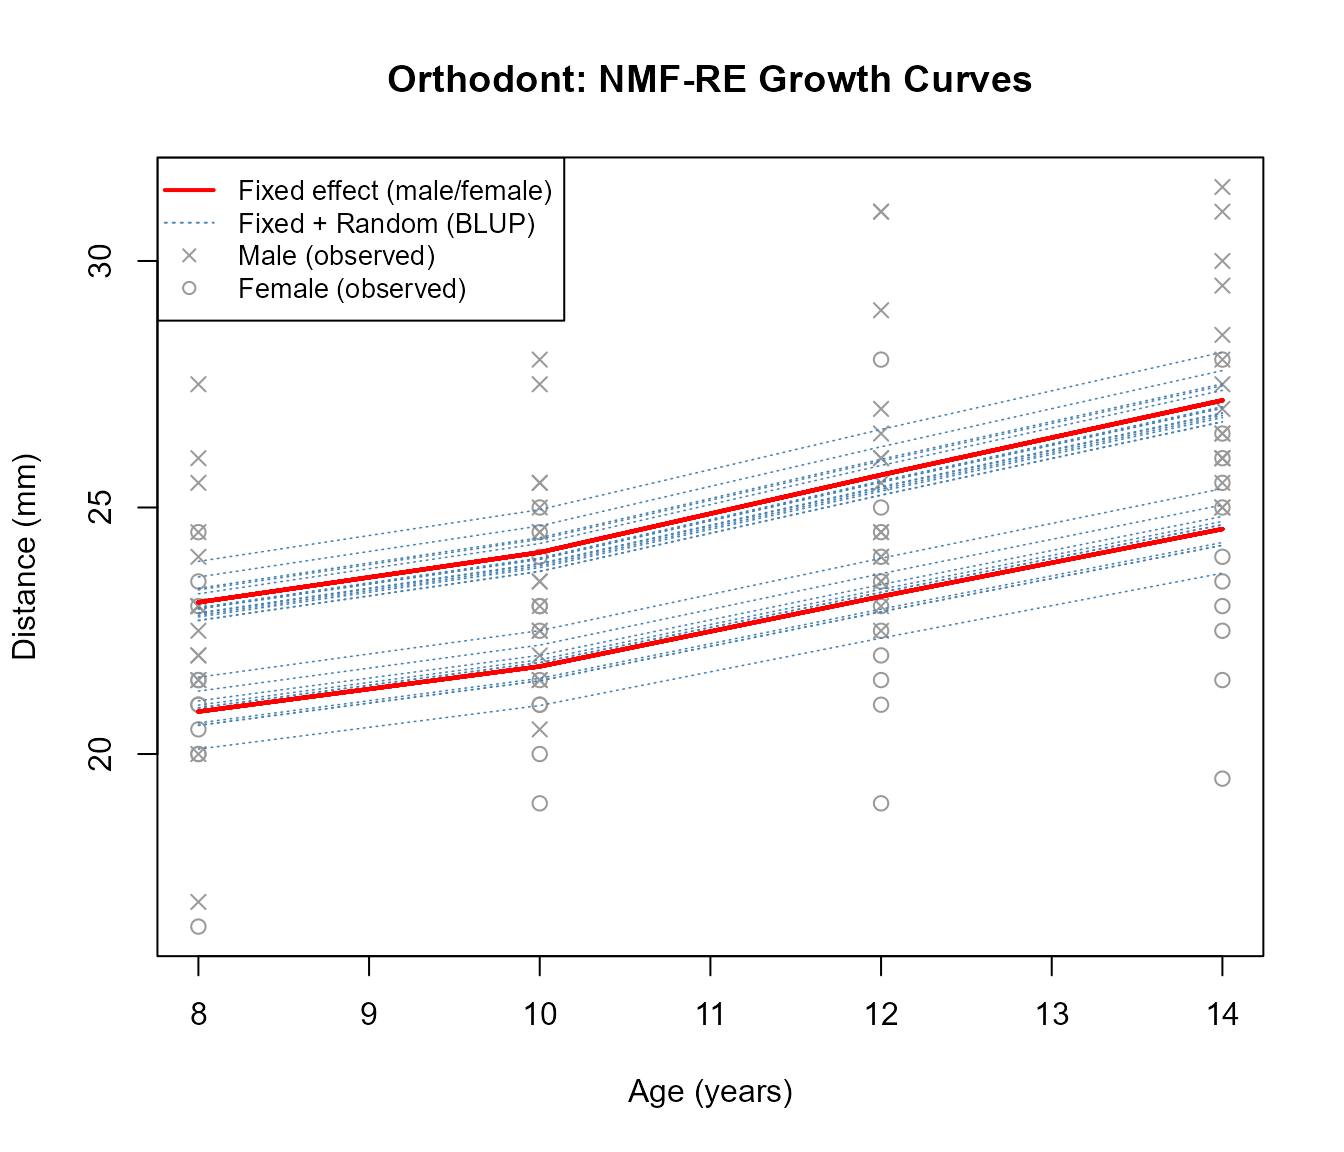
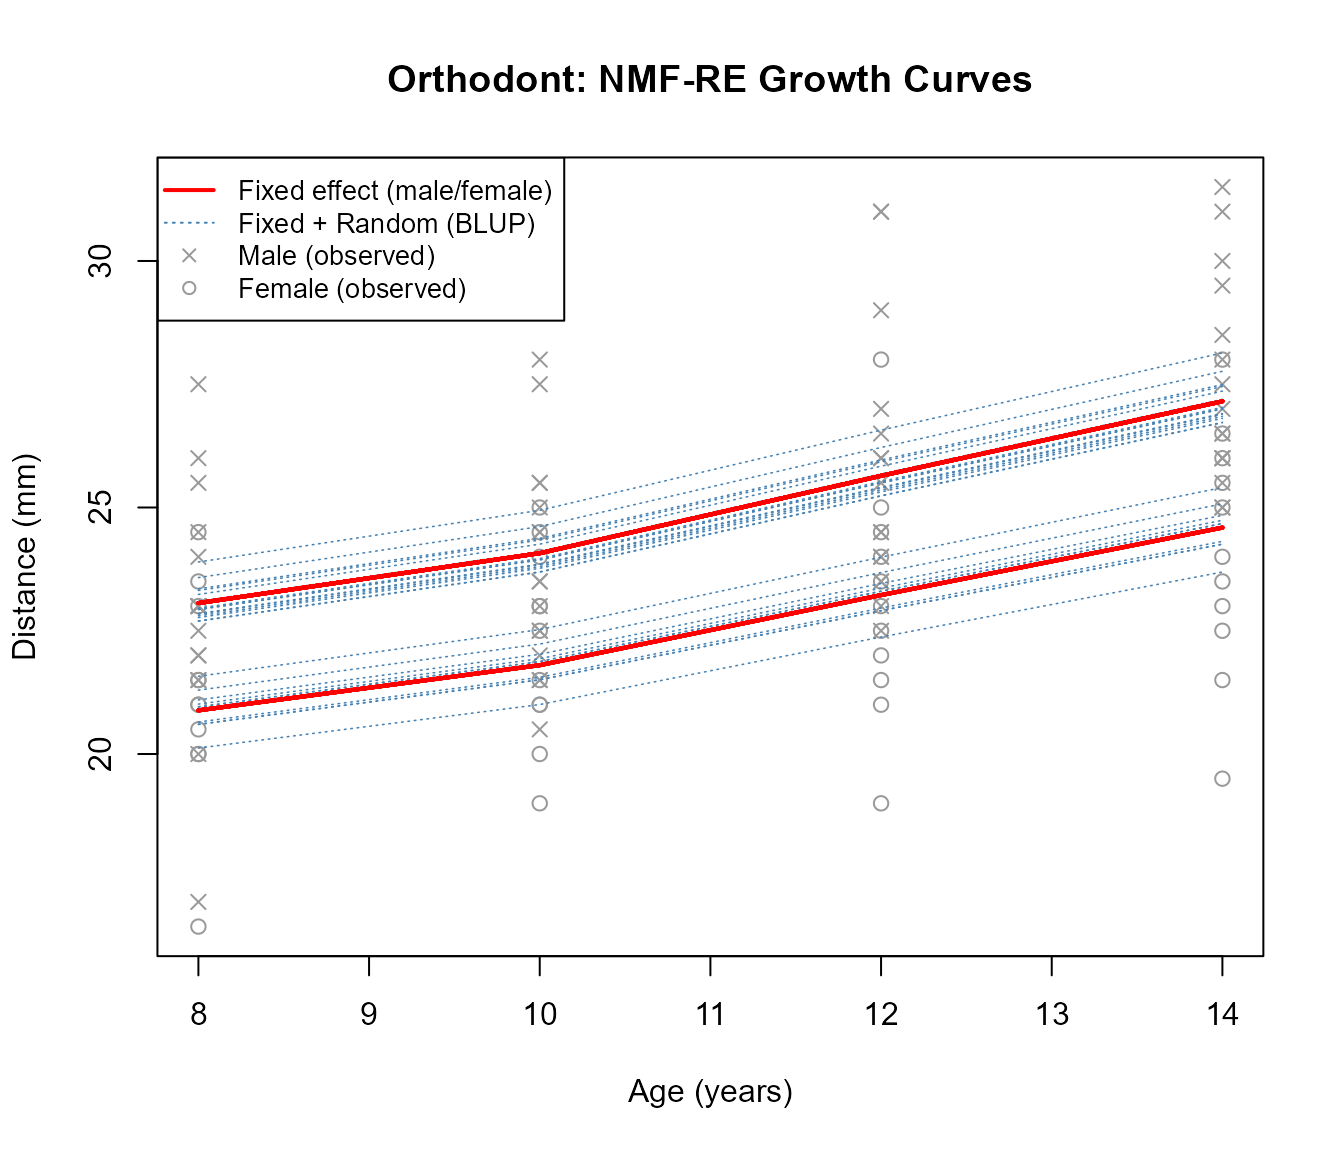
Update NMF-RE vignette with epsilon=1e-08

Changed region(s): [[0.1562, 0.4375, 0.9062, 0.625], [0.1562, 0.3125, 0.9062, 0.5312]]

diff --git a/docs/articles/nmf-re-with-nmfkc.html b/docs/articles/nmf-re-with-nmfkc.html
@@ -273,7 +273,7 @@ was updated freely (<code>TRUE</code> = unconstrained).</li>
 Coefficient.</li>
 </ul>
 <div class="sourceCode" id="cb4"><pre class="downlit sourceCode r">
-<code class="sourceCode R"><span><span class="va">scan_result</span> <span class="op">&lt;-</span> <span class="fu"><a href="../reference/nmfre.dfU.scan.html">nmfre.dfU.scan</a></span><span class="op">(</span><span class="fl">1</span><span class="op">:</span><span class="fl">10</span><span class="op">/</span><span class="fl">10</span>, <span class="va">Y</span>, <span class="va">A</span>, Q <span class="op">=</span> <span class="fl">1</span><span class="op">)</span></span>
+<code class="sourceCode R"><span><span class="va">scan_result</span> <span class="op">&lt;-</span> <span class="fu"><a href="../reference/nmfre.dfU.scan.html">nmfre.dfU.scan</a></span><span class="op">(</span><span class="fl">1</span><span class="op">:</span><span class="fl">10</span><span class="op">/</span><span class="fl">10</span>, <span class="va">Y</span>, <span class="va">A</span>, Q <span class="op">=</span> <span class="fl">1</span>, epsilon <span class="op">=</span> <span class="fl">1e-08</span><span class="op">)</span></span>
 <span><span class="va">scan_result</span></span>
 <span><span class="co">#&gt;    rate dfU.cap  dfU safeguard   hit converged  tau2 sigma2    ICC</span></span>
 <span><span class="co">#&gt; 1   0.1     2.7 2.70     FALSE  TRUE      TRUE 0.443      1 0.0270</span></span>
@@ -312,7 +312,7 @@ the model with rank
 (a single latent trend). The <code>prefix</code> argument labels the
 basis.</p>
 <div class="sourceCode" id="cb5"><pre class="downlit sourceCode r">
-<code class="sourceCode R"><span><span class="va">res</span> <span class="op">&lt;-</span> <span class="fu"><a href="../reference/nmfre.html">nmfre</a></span><span class="op">(</span><span class="va">Y</span>, <span class="va">A</span>, Q <span class="op">=</span> <span class="fl">1</span>, dfU.cap.rate <span class="op">=</span> <span class="fl">0.2</span>, prefix <span class="op">=</span> <span class="st">"Trend"</span><span class="op">)</span></span></code></pre></div>
+<code class="sourceCode R"><span><span class="va">res</span> <span class="op">&lt;-</span> <span class="fu"><a href="../reference/nmfre.html">nmfre</a></span><span class="op">(</span><span class="va">Y</span>, <span class="va">A</span>, Q <span class="op">=</span> <span class="fl">1</span>, dfU.cap.rate <span class="op">=</span> <span class="fl">0.2</span>, epsilon <span class="op">=</span> <span class="fl">1e-08</span>, prefix <span class="op">=</span> <span class="st">"Trend"</span><span class="op">)</span></span></code></pre></div>
 <div class="section level3">
 <h3 id="model-summary">3.1 Model Summary<a class="anchor" aria-label="anchor" href="#model-summary"></a>
 </h3>
@@ -321,7 +321,7 @@ and the coefficient table with significance stars.</p>
 <div class="sourceCode" id="cb6"><pre class="downlit sourceCode r">
 <code class="sourceCode R"><span><span class="fu"><a href="https://rdrr.io/pkg/urca/man/summary-methods.html" class="external-link">summary</a></span><span class="op">(</span><span class="va">res</span><span class="op">)</span></span>
 <span><span class="co">#&gt; NMF-RE: Y(4,27) = X(4,1) [C(1,2) A + U(1,27)]</span></span>
-<span><span class="co">#&gt; Iterations: 2 (converged, epsilon = 1e-05)</span></span>
+<span><span class="co">#&gt; Iterations: 2 (converged, epsilon = 1e-08)</span></span>
 <span><span class="co">#&gt; R-squared: 0.5654 (XB+blup), 0.4167 (XB)</span></span>
 <span><span class="co">#&gt; </span></span>
 <span><span class="co">#&gt; Variance components:</span></span>
@@ -333,8 +333,8 @@ and the coefficient table with significance stars.</p>
 <span><span class="co">#&gt; </span></span>
 <span><span class="co">#&gt; Coefficients:</span></span>
 <span><span class="co">#&gt;                   Estimate Std. Error (Boot) z value   Pr(&gt;z) </span></span>
-<span><span class="co">#&gt; intercept:Trend1    90.393      2.471  2.452   36.58   &lt;2e-16 ***</span></span>
-<span><span class="co">#&gt;      male:Trend1     9.606      3.056  2.977    3.14 0.0008356 ***</span></span>
+<span><span class="co">#&gt; intercept:Trend1    90.502      2.471  2.450   36.62   &lt;2e-16 ***</span></span>
+<span><span class="co">#&gt;      male:Trend1     9.428      3.056  2.975    3.09 0.001017 **</span></span>
 <span><span class="co">#&gt; ---</span></span>
 <span><span class="co">#&gt; Signif. codes:  0 '***' 0.001 '**' 0.01 '*' 0.05 '.' 0.1 ' ' 1</span></span></code></pre></div>
 </div>
@@ -483,7 +483,7 @@ maps covariates to latent scores:</p>
 <span><span class="co">#&gt; Coefficient matrix (Theta):</span></span>
 <span><span class="fu"><a href="https://rdrr.io/r/base/print.html" class="external-link">print</a></span><span class="op">(</span><span class="fu"><a href="https://rdrr.io/r/base/Round.html" class="external-link">round</a></span><span class="op">(</span><span class="va">res</span><span class="op">$</span><span class="va">C</span>, <span class="fl">4</span><span class="op">)</span><span class="op">)</span></span>
 <span><span class="co">#&gt;        intercept   male</span></span>
-<span><span class="co">#&gt; Trend1   90.3934 9.6059</span></span></code></pre></div>
+<span><span class="co">#&gt; Trend1    90.502 9.4285</span></span></code></pre></div>
 <ul>
 <li>
 <code>intercept</code>: Baseline level of the latent trend for
@@ -541,9 +541,9 @@ slower growth.</p>
 <div class="sourceCode" id="cb13"><pre class="downlit sourceCode r">
 <code class="sourceCode R"><span><span class="va">residuals</span> <span class="op">&lt;-</span> <span class="va">Y</span> <span class="op">-</span> <span class="va">res</span><span class="op">$</span><span class="va">XB.blup</span></span>
 <span><span class="fu"><a href="https://rdrr.io/r/base/cat.html" class="external-link">cat</a></span><span class="op">(</span><span class="st">"Mean absolute residual (BLUP):"</span>, <span class="fu"><a href="https://rdrr.io/r/base/Round.html" class="external-link">round</a></span><span class="op">(</span><span class="fu"><a href="https://rdrr.io/r/base/mean.html" class="external-link">mean</a></span><span class="op">(</span><span class="fu"><a href="https://rdrr.io/r/base/MathFun.html" class="external-link">abs</a></span><span class="op">(</span><span class="va">residuals</span><span class="op">)</span><span class="op">)</span>, <span class="fl">4</span><span class="op">)</span>, <span class="st">"\n"</span><span class="op">)</span></span>
-<span><span class="co">#&gt; Mean absolute residual (BLUP): 1.5118</span></span>
+<span><span class="co">#&gt; Mean absolute residual (BLUP): 1.5105</span></span>
 <span><span class="fu"><a href="https://rdrr.io/r/base/cat.html" class="external-link">cat</a></span><span class="op">(</span><span class="st">"Mean absolute residual (fixed):"</span>, <span class="fu"><a href="https://rdrr.io/r/base/Round.html" class="external-link">round</a></span><span class="op">(</span><span class="fu"><a href="https://rdrr.io/r/base/mean.html" class="external-link">mean</a></span><span class="op">(</span><span class="fu"><a href="https://rdrr.io/r/base/MathFun.html" class="external-link">abs</a></span><span class="op">(</span><span class="va">Y</span> <span class="op">-</span> <span class="va">res</span><span class="op">$</span><span class="va">XB</span><span class="op">)</span><span class="op">)</span>, <span class="fl">4</span><span class="op">)</span>, <span class="st">"\n"</span><span class="op">)</span></span>
-<span><span class="co">#&gt; Mean absolute residual (fixed): 1.7612</span></span>
+<span><span class="co">#&gt; Mean absolute residual (fixed): 1.7589</span></span>
 <span></span>
 <span><span class="co"># Fitted vs Observed</span></span>
 <span><span class="fu"><a href="https://rdrr.io/r/base/plot.html" class="external-link">plot</a></span><span class="op">(</span><span class="fu"><a href="https://rdrr.io/r/base/vector.html" class="external-link">as.vector</a></span><span class="op">(</span><span class="va">Y</span><span class="op">)</span>, <span class="fu"><a href="https://rdrr.io/r/base/vector.html" class="external-link">as.vector</a></span><span class="op">(</span><span class="va">res</span><span class="op">$</span><span class="va">XB.blup</span><span class="op">)</span>,</span>
@@ -561,13 +561,13 @@ slower growth.</p>
 standard NMF covariate model (no random effects).</p>
 <div class="sourceCode" id="cb14"><pre class="downlit sourceCode r">
 <code class="sourceCode R"><span><span class="co"># Standard NMF with covariates (no random effects)</span></span>
-<span><span class="va">res_fixed</span> <span class="op">&lt;-</span> <span class="fu"><a href="../reference/nmfkc.html">nmfkc</a></span><span class="op">(</span><span class="va">Y</span>, A <span class="op">=</span> <span class="va">A</span>, Q <span class="op">=</span> <span class="fl">1</span>, epsilon <span class="op">=</span> <span class="fl">1e-5</span><span class="op">)</span></span>
+<span><span class="va">res_fixed</span> <span class="op">&lt;-</span> <span class="fu"><a href="../reference/nmfkc.html">nmfkc</a></span><span class="op">(</span><span class="va">Y</span>, A <span class="op">=</span> <span class="va">A</span>, Q <span class="op">=</span> <span class="fl">1</span>, epsilon <span class="op">=</span> <span class="fl">1e-08</span><span class="op">)</span></span>
 <span><span class="co">#&gt; Y(4,27)~X(4,1)C(1,2)A(2,27)=XB(1,27)...0sec</span></span>
 <span></span>
 <span><span class="fu"><a href="https://rdrr.io/r/base/cat.html" class="external-link">cat</a></span><span class="op">(</span><span class="st">"=== Standard NMF (fixed effects only) ===\n"</span><span class="op">)</span></span>
 <span><span class="co">#&gt; === Standard NMF (fixed effects only) ===</span></span>
 <span><span class="fu"><a href="https://rdrr.io/r/base/cat.html" class="external-link">cat</a></span><span class="op">(</span><span class="st">"R-squared:"</span>, <span class="fu"><a href="https://rdrr.io/r/base/Round.html" class="external-link">round</a></span><span class="op">(</span><span class="fl">1</span> <span class="op">-</span> <span class="fu"><a href="https://rdrr.io/r/base/sum.html" class="external-link">sum</a></span><span class="op">(</span><span class="op">(</span><span class="va">Y</span> <span class="op">-</span> <span class="va">res_fixed</span><span class="op">$</span><span class="va">XB</span><span class="op">)</span><span class="op">^</span><span class="fl">2</span><span class="op">)</span> <span class="op">/</span> <span class="fu"><a href="https://rdrr.io/r/base/sum.html" class="external-link">sum</a></span><span class="op">(</span><span class="op">(</span><span class="va">Y</span> <span class="op">-</span> <span class="fu"><a href="https://rdrr.io/r/base/mean.html" class="external-link">mean</a></span><span class="op">(</span><span class="va">Y</span><span class="op">)</span><span class="op">)</span><span class="op">^</span><span class="fl">2</span><span class="op">)</span>, <span class="fl">4</span><span class="op">)</span>, <span class="st">"\n\n"</span><span class="op">)</span></span>
-<span><span class="co">#&gt; R-squared: 0.4166</span></span>
+<span><span class="co">#&gt; R-squared: 0.4167</span></span>
 <span></span>
 <span><span class="fu"><a href="https://rdrr.io/r/base/cat.html" class="external-link">cat</a></span><span class="op">(</span><span class="st">"=== NMF-RE (fixed + random effects) ===\n"</span><span class="op">)</span></span>
 <span><span class="co">#&gt; === NMF-RE (fixed + random effects) ===</span></span>

diff --git a/docs/articles/timeseries-with-nmfkc.html b/docs/articles/timeseries-with-nmfkc.html
@@ -185,18 +185,18 @@ dimension.</p>
 <span><span class="va">cv_res</span> <span class="op">&lt;-</span> <span class="fu"><a href="../reference/nmfkc.ar.degree.cv.html">nmfkc.ar.degree.cv</a></span><span class="op">(</span><span class="va">d_air_log</span>, rank <span class="op">=</span> <span class="fl">1</span>, degree <span class="op">=</span> <span class="fl">1</span><span class="op">:</span><span class="fl">14</span>, epsilon<span class="op">=</span><span class="fl">1e-6</span>, maxit<span class="op">=</span><span class="fl">500000</span><span class="op">)</span></span>
 <span><span class="co">#&gt; degree=1...0.2sec</span></span>
 <span><span class="co">#&gt; degree=2...0.7sec</span></span>
-<span><span class="co">#&gt; degree=3...0.8sec</span></span>
-<span><span class="co">#&gt; degree=4...0.8sec</span></span>
-<span><span class="co">#&gt; degree=5...0.7sec</span></span>
+<span><span class="co">#&gt; degree=3...0.7sec</span></span>
+<span><span class="co">#&gt; degree=4...0.7sec</span></span>
+<span><span class="co">#&gt; degree=5...0.8sec</span></span>
 <span><span class="co">#&gt; degree=6...0.8sec</span></span>
-<span><span class="co">#&gt; degree=7...0.8sec</span></span>
+<span><span class="co">#&gt; degree=7...0.7sec</span></span>
 <span><span class="co">#&gt; degree=8...0.8sec</span></span>
-<span><span class="co">#&gt; degree=9...1sec</span></span>
+<span><span class="co">#&gt; degree=9...0.9sec</span></span>
 <span><span class="co">#&gt; degree=10...0.9sec</span></span>
 <span><span class="co">#&gt; degree=11...0.9sec</span></span>
-<span><span class="co">#&gt; degree=12...0.9sec</span></span>
-<span><span class="co">#&gt; degree=13...1sec</span></span>
-<span><span class="co">#&gt; degree=14...1sec</span></span></code></pre></div>
+<span><span class="co">#&gt; degree=12...0.8sec</span></span>
+<span><span class="co">#&gt; degree=13...0.9sec</span></span>
+<span><span class="co">#&gt; degree=14...1.1sec</span></span></code></pre></div>
 <p><img src="timeseries-with-nmfkc_files/figure-html/air-degree-cv-1.png" width="672"></p>
 <div class="sourceCode" id="cb4"><pre class="downlit sourceCode r">
 <code class="sourceCode R"><span></span>

diff --git a/docs/articles/classification-with-nmfkc.html b/docs/articles/classification-with-nmfkc.html
@@ -341,7 +341,7 @@ directly for a quick demonstration.</p>
 <span><span class="va">A_penguins</span> <span class="op">&lt;-</span> <span class="fu"><a href="../reference/nmfkc.kernel.html">nmfkc.kernel</a></span><span class="op">(</span><span class="va">U_penguins</span>, beta <span class="op">=</span> <span class="va">best_beta_penguins</span><span class="op">)</span></span>
 <span><span class="va">res_penguins</span> <span class="op">&lt;-</span> <span class="fu"><a href="../reference/nmfkc.html">nmfkc</a></span><span class="op">(</span>Y <span class="op">=</span> <span class="va">Y_penguins</span>, A <span class="op">=</span> <span class="va">A_penguins</span>, rank <span class="op">=</span> <span class="va">rank_penguins</span>, </span>
 <span>                      seed <span class="op">=</span> <span class="fl">123</span>, prefix <span class="op">=</span> <span class="st">"Class"</span><span class="op">)</span></span>
-<span><span class="co">#&gt; Y(3,333)~X(3,3)C(3,333)A(333,333)=XB(3,333)...0.2sec</span></span></code></pre></div>
+<span><span class="co">#&gt; Y(3,333)~X(3,3)C(3,333)A(333,333)=XB(3,333)...0.1sec</span></span></code></pre></div>
 </div>
 <div class="section level3">
 <h3 id="visualizing-soft-classification">3. Visualizing “Soft” Classification<a class="anchor" aria-label="anchor" href="#visualizing-soft-classification"></a>
